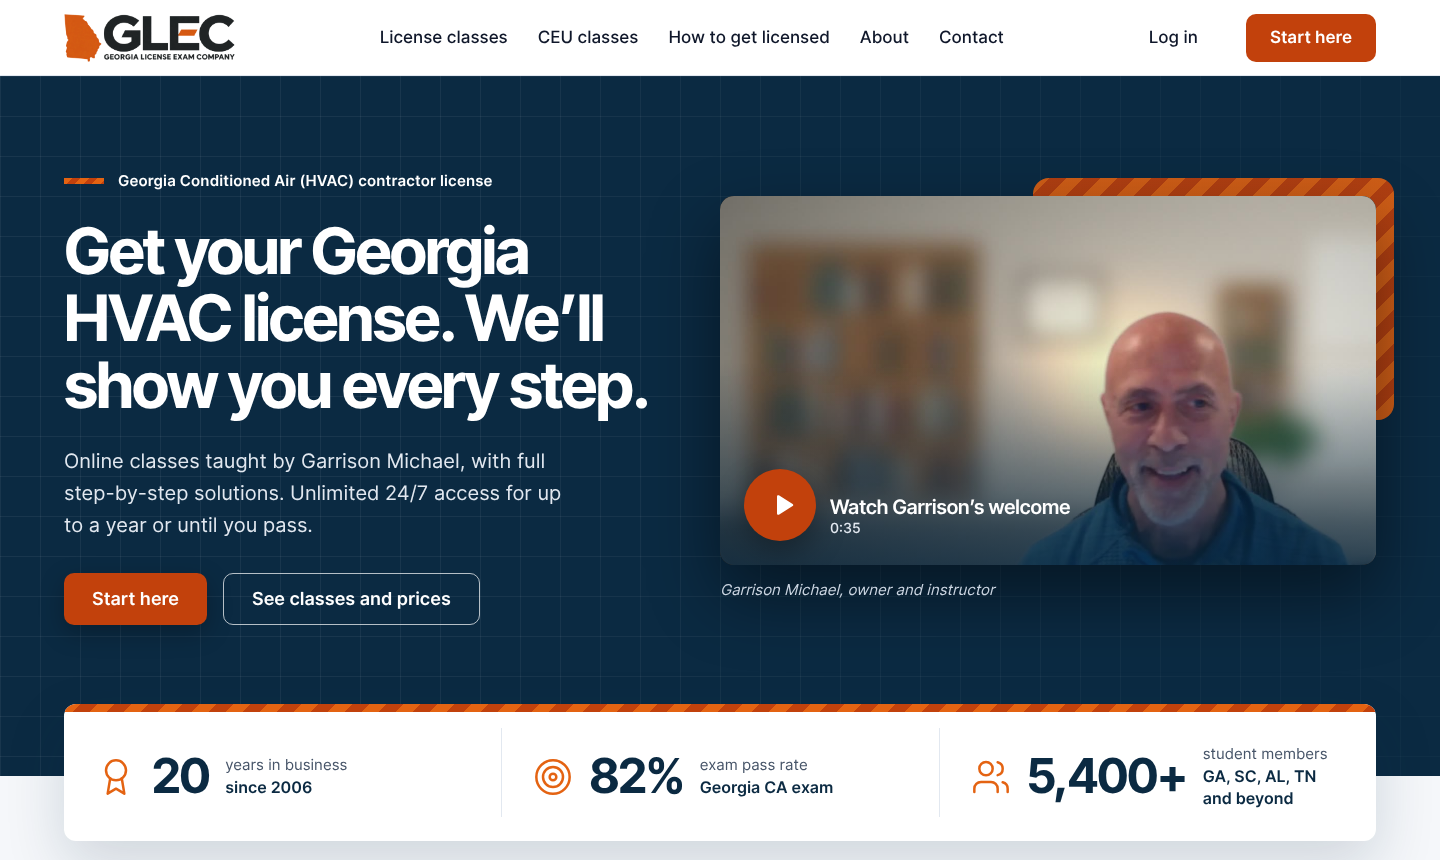
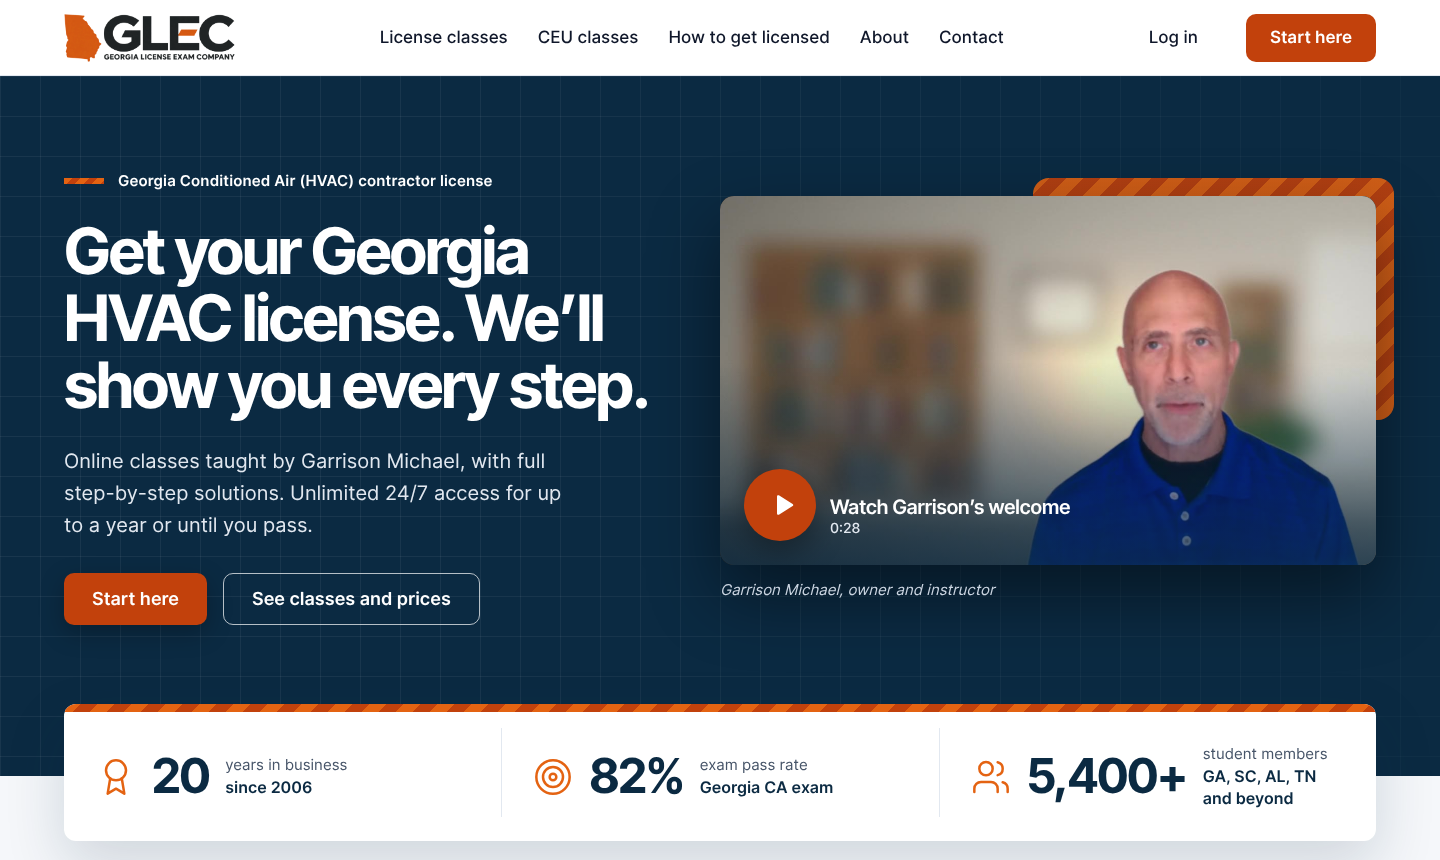
GLEC hero: Garrison welcome video v2 (HQ), first 0.6s exposure glitch trimmed
Claude-Session: https://claude.ai/code/session_01PwAPD3HTXePXK43bhM7Yps

Changed region(s): [[0.7188, 0.3023, 0.9375, 0.6651]]

diff --git a/glec/wordpress/build-tools/build.py b/glec/wordpress/build-tools/build.py
@@ -118,7 +118,7 @@ hero_card = ('<div class="g-pcard" aria-hidden="true"><div class="g-pcard__top">
   '<div class="g-pcard__foot"><span>Lesson 9 · Gas pipe sizing</span><b>Continue →</b></div></div>'
   '<div class="g-cpill" aria-hidden="true"><i>%s</i>Certificate prints instantly</div>') % (ic(I['checkc'],14), ic('<path d="M20 6 9 17l-5-5" stroke="#fff" stroke-width="2.5"/>',16))
 home.append(C([
-    HTML('<figure class="g-hvid"><div class="g-hvid__frame"><video preload="none" playsinline poster="https://staging158.dreamweb.digital/wp-content/uploads/2026/11/garrison-welcome-poster.jpg" aria-label="A welcome from Garrison Michael"><source src="https://staging158.dreamweb.digital/wp-content/uploads/2026/11/garrison-welcome.mp4" type="video/mp4"></video><button type="button" class="g-hvid__play" aria-label="Play: a welcome from Garrison Michael, 35 seconds"><span class="g-hvid__btn" aria-hidden="true"><svg width="30" height="30" viewBox="0 0 24 24" fill="#fff"><path d="M8 5.14v13.72a1 1 0 0 0 1.5.86l11-6.86a1 1 0 0 0 0-1.72l-11-6.86A1 1 0 0 0 8 5.14Z"/></svg></span><span class="g-hvid__label" aria-hidden="true"><b>Watch Garrison&rsquo;s welcome</b><small>0:35</small></span></button></div><figcaption>Garrison Michael, owner and instructor</figcaption></figure>', 'g-hero-video'),
+    HTML('<figure class="g-hvid"><div class="g-hvid__frame"><video preload="none" playsinline poster="https://staging158.dreamweb.digital/wp-content/uploads/2026/11/garrison-welcome-v2-poster.jpg" aria-label="A welcome from Garrison Michael"><source src="https://staging158.dreamweb.digital/wp-content/uploads/2026/11/garrison-welcome-v2.mp4" type="video/mp4"></video><button type="button" class="g-hvid__play" aria-label="Play: a welcome from Garrison Michael, 28 seconds"><span class="g-hvid__btn" aria-hidden="true"><svg width="30" height="30" viewBox="0 0 24 24" fill="#fff"><path d="M8 5.14v13.72a1 1 0 0 0 1.5.86l11-6.86a1 1 0 0 0 0-1.72l-11-6.86A1 1 0 0 0 8 5.14Z"/></svg></span><span class="g-hvid__label" aria-hidden="true"><b>Watch Garrison&rsquo;s welcome</b><small>0:28</small></span></button></div><figcaption>Garrison Michael, owner and instructor</figcaption></figure>', 'g-hero-video'),
     HTML('<div class="s1"></div><div class="s2"></div><div class="gr"></div>', 'g-hero-decor'),
     C([
         H('Georgia Conditioned Air (HVAC) contractor license','div',None,None,'g-eyebrow-stripe'),
